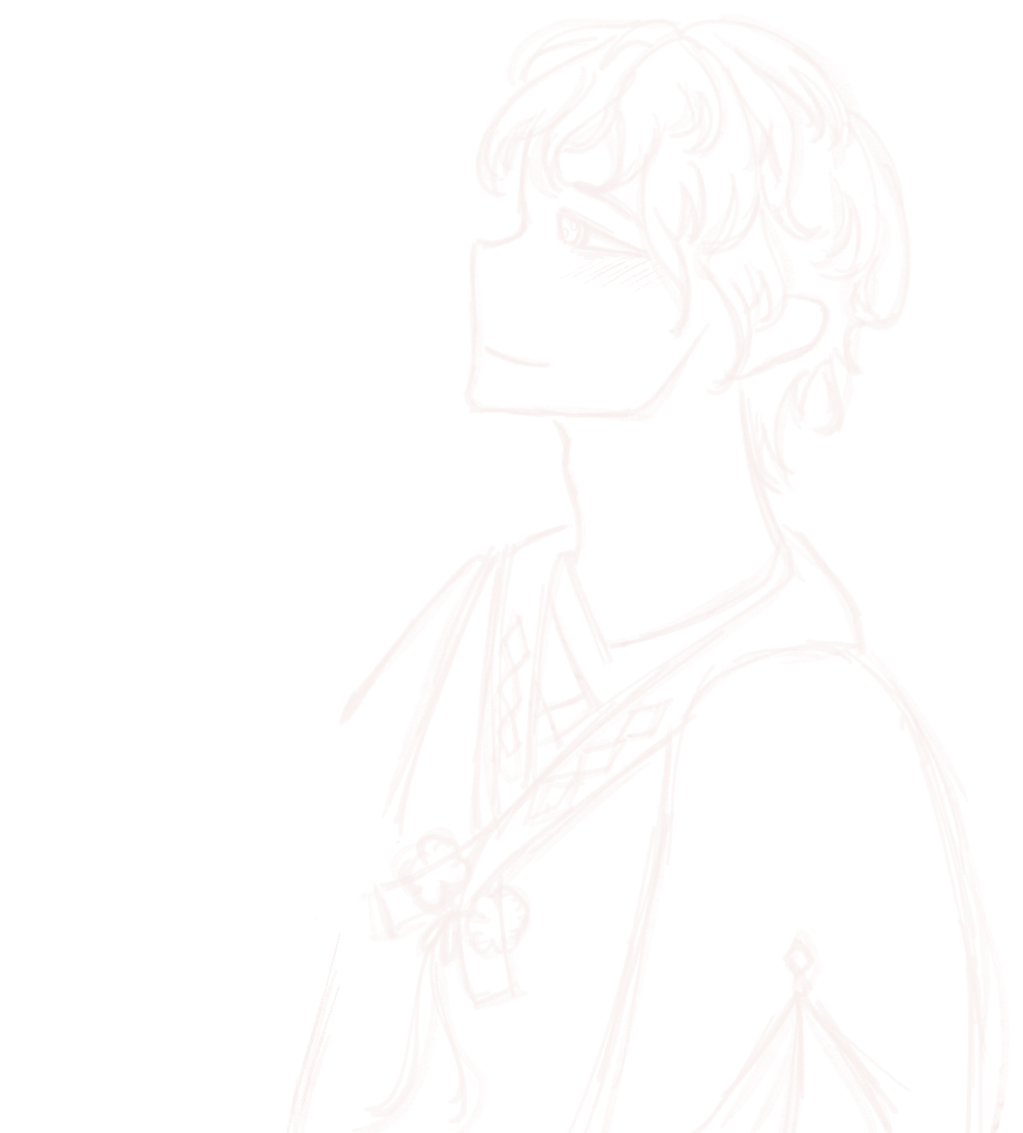
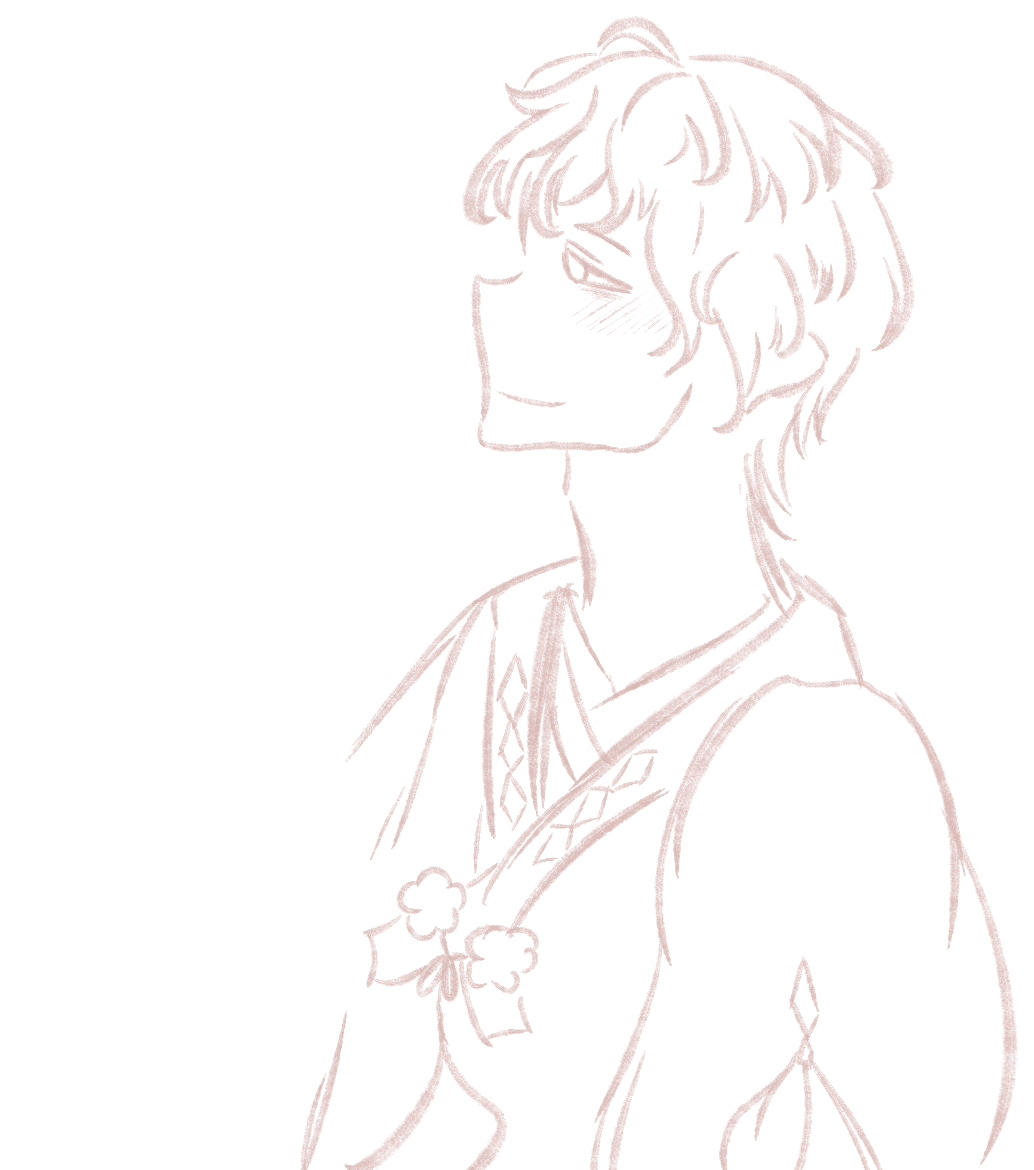
feat: update reasons and illustrations

diff --git a/src/main/resources/templates/index.html b/src/main/resources/templates/index.html
@@ -64,13 +64,8 @@
     <section id="songs-screen" class="screen hidden">
         <!-- Left space for user illustration / artwork -->
         <div class="songs-art-zone">
-            <!-- When you have your drawing, simply uncomment this line and set your path:
-                 <img th:src="@{/images/your-artwork.png}" alt="Songs Illustration" class="songs-art-img">
-            -->
-            <div class="art-placeholder">
-                <span class="art-kanji">音</span>
-                <span class="art-label">Your artwork here</span>
-            </div>
+            <img th:src="@{/images/linterns-songs.png}" alt="Japanese floating lanterns" class="songs-art-img songs-lanterns-img">
+            <img th:src="@{/images/couple-songs.png}" alt="A couple together in a Japanese boat" class="songs-art-img songs-couple-img">
         </div>
 
         <main class="songs-panel">
@@ -240,14 +235,14 @@
             </header>
 
             <div class="reasons-scrolls">
-                <article class="reason-scroll"><span class="chinese-tassel reason-tassel" aria-hidden="true"><span class="tassel-string"></span><span class="tassel-knot"></span><span class="tassel-fringe"></span></span><p>You make ordinary days feel special.</p></article>
-                <article class="reason-scroll"><span class="chinese-tassel reason-tassel" aria-hidden="true"><span class="tassel-string"></span><span class="tassel-knot"></span><span class="tassel-fringe"></span></span><p>Your laughter makes everything feel warmer.</p></article>
-                <article class="reason-scroll"><span class="chinese-tassel reason-tassel" aria-hidden="true"><span class="tassel-string"></span><span class="tassel-knot"></span><span class="tassel-fringe"></span></span><p>You inspire me to keep dreaming.</p></article>
-                <article class="reason-scroll"><span class="chinese-tassel reason-tassel" aria-hidden="true"><span class="tassel-string"></span><span class="tassel-knot"></span><span class="tassel-fringe"></span></span><p>I love the way you see the world.</p></article>
-                <article class="reason-scroll"><span class="chinese-tassel reason-tassel" aria-hidden="true"><span class="tassel-string"></span><span class="tassel-knot"></span><span class="tassel-fringe"></span></span><p>You believe in the person I am becoming.</p></article>
-                <article class="reason-scroll"><span class="chinese-tassel reason-tassel" aria-hidden="true"><span class="tassel-string"></span><span class="tassel-knot"></span><span class="tassel-fringe"></span></span><p>You make tomorrow feel full of possibility.</p></article>
-                <article class="reason-scroll"><span class="chinese-tassel reason-tassel" aria-hidden="true"><span class="tassel-string"></span><span class="tassel-knot"></span><span class="tassel-fringe"></span></span><p>Your heart is one of my favorite places.</p></article>
-                <article class="reason-scroll"><span class="chinese-tassel reason-tassel" aria-hidden="true"><span class="tassel-string"></span><span class="tassel-knot"></span><span class="tassel-fringe"></span></span><p>Of all the lives I could have lived, I would still choose you.</p></article>
+                <article class="reason-scroll"><span class="chinese-tassel reason-tassel" aria-hidden="true"><span class="tassel-string"></span><span class="tassel-knot"></span><span class="tassel-fringe"></span></span><p>Your soul, because I love the part of you no eyes can see.</p></article>
+                <article class="reason-scroll"><span class="chinese-tassel reason-tassel" aria-hidden="true"><span class="tassel-string"></span><span class="tassel-knot"></span><span class="tassel-fringe"></span></span><p>Your mind, because it never ceases to amaze me.</p></article>
+                <article class="reason-scroll"><span class="chinese-tassel reason-tassel" aria-hidden="true"><span class="tassel-string"></span><span class="tassel-knot"></span><span class="tassel-fringe"></span></span><p>Your heart, because there is so much kindness in you.</p></article>
+                <article class="reason-scroll"><span class="chinese-tassel reason-tassel" aria-hidden="true"><span class="tassel-string"></span><span class="tassel-knot"></span><span class="tassel-fringe"></span></span><p>Your light, because you make even ordinary days feel brighter.</p></article>
+                <article class="reason-scroll"><span class="chinese-tassel reason-tassel" aria-hidden="true"><span class="tassel-string"></span><span class="tassel-knot"></span><span class="tassel-fringe"></span></span><p>Your dreams, because I want to see every one of them come true.</p></article>
+                <article class="reason-scroll"><span class="chinese-tassel reason-tassel" aria-hidden="true"><span class="tassel-string"></span><span class="tassel-knot"></span><span class="tassel-fringe"></span></span><p>Your presence, because everything feels better when you are near.</p></article>
+                <article class="reason-scroll"><span class="chinese-tassel reason-tassel" aria-hidden="true"><span class="tassel-string"></span><span class="tassel-knot"></span><span class="tassel-fringe"></span></span><p>Your strength, because you keep moving forward and inspire me to do the same.</p></article>
+                <article class="reason-scroll"><span class="chinese-tassel reason-tassel" aria-hidden="true"><span class="tassel-string"></span><span class="tassel-knot"></span><span class="tassel-fringe"></span></span><p>Simply you, because after all these years, I would still choose you.</p></article>
             </div>
 
             <div class="reasons-art-space" aria-label="Espacio reservado para la ilustración"></div>

diff --git a/src/main/resources/static/css/styles.css b/src/main/resources/static/css/styles.css
@@ -272,14 +272,67 @@ body {
     display: flex;
     justify-content: space-between;
     align-items: center;
-    gap: 2.5vw;
+    gap: 0;
+}
+
+.songs-art-zone {
+    position: relative;
+    flex: 0 0 50%;
+    width: 50%;
+    height: 88vh;
+    min-width: 0;
+}
+
+.songs-art-img {
+    position: absolute;
+    display: block;
+    height: auto;
+    object-fit: contain;
+    filter: drop-shadow(0 10px 18px rgba(30, 12, 8, 0.24));
+    pointer-events: none;
+}
+
+.songs-lanterns-img {
+    top: 0;
+    left: 3%;
+    width: min(72%, 62vh);
+    max-height: 66%;
+    z-index: 1;
+    animation: lanternsFloat 5.8s ease-in-out infinite;
+}
+
+.songs-couple-img {
+    left: 1%;
+    bottom: 0;
+    width: min(98%, 85vh);
+    max-height: 78%;
+    z-index: 2;
+    animation: coupleBoatSway 6.4s ease-in-out infinite;
+}
+
+@keyframes lanternsFloat {
+    0%, 100% { transform: translateY(0); }
+    50% { transform: translateY(-12px); }
+}
+
+@keyframes coupleBoatSway {
+    0%, 100% { transform: translateX(-10px); }
+    50% { transform: translateX(10px); }
+}
+
+@media (prefers-reduced-motion: reduce) {
+    .songs-art-img {
+        animation: none !important;
+    }
 }
 
 /* Songs panel aligned to the right */
 
 .songs-panel {
     position: relative;
-    width: min(650px, 55%);
+    flex: 0 0 50%;
+    width: 50%;
+    max-width: none;
     max-height: 88vh;
     overflow-y: auto;
     padding: clamp(18px, 3.5vw, 36px);
@@ -680,8 +733,23 @@ body {
 
     .songs-art-zone {
         width: 100%;
-        height: auto;
-        min-height: 200px;
+        height: clamp(270px, 40vh, 430px);
+        min-height: 270px;
+        flex: 0 0 auto;
+    }
+
+    .songs-lanterns-img {
+        top: 0;
+        left: 3%;
+        width: min(48%, 34vh);
+        max-height: 68%;
+    }
+
+    .songs-couple-img {
+        left: 17%;
+        bottom: 0;
+        width: min(82%, 56vh);
+        max-height: 72%;
     }
 
     .art-placeholder {
@@ -689,6 +757,7 @@ body {
     }
 
     .songs-panel {
+        flex: 0 0 auto;
         width: 100%;
         max-width: 600px;
     }
